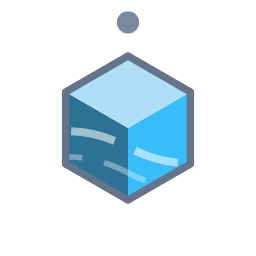
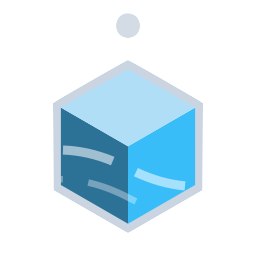
Deploying to gh-pages from @ pritamd47/riverlab-website@c75cc60e928ff2b4360d1bc097e0c35e90087186 🚀

Changed region(s): [[0.1875, 0.1875, 0.8125, 0.9062], [0.4375, 0.0312, 0.5625, 0.1562]]

diff --git a/2025/04/01/forecast-paper-published.html b/2025/04/01/forecast-paper-published.html
@@ -66,10 +66,10 @@
 
   <meta name="author" content="pritam-das">
   <meta property="og:type" content="article">
-  <meta property="og:updated_time" content="2026-05-09T11:22:44+00:00">
+  <meta property="og:updated_time" content="2026-05-09T12:01:44+00:00">
   <meta property="article:published_time" content="2025-04-01T00:00:00+00:00">
-  <meta property="article:modified_time" content="2026-05-09T11:22:44+00:00">
-  <meta name="revised" content="2026-05-09T11:22:44+00:00">
+  <meta property="article:modified_time" content="2026-05-09T12:01:44+00:00">
+  <meta name="revised" content="2026-05-09T12:01:44+00:00">
 
 
 <script type="application/ld+json">
@@ -79,7 +79,7 @@
       "@type": "BlogPosting",
       "author": { "@type": "Person", "name": "Paper on forecast-informed reservoir operations published in Journal of Hydrologic Engineering" },
       "datePublished": "2025-04-01T00:00:00+00:00",
-      "dateModified": "2026-05-09T11:22:44+00:00",
+      "dateModified": "2026-05-09T12:01:44+00:00",
     
     "name": "Paper on forecast-informed reservoir operations published in Journal of Hydrologic Engineering",
     "description": "Remote Sensing, Informatics &amp; Visualization for Earth Resources · IIT Bombay. Research lab at CSRE, IIT Bombay working on satellite remote sensing, hydrological modelling, and water-resource management for regulated rivers and reservoirs.",
@@ -380,12 +380,12 @@
   </g>
 
   <!-- Outer hex border only -->
-  <polygon fill="none" stroke="#64748b" stroke-width="2.3" stroke-linejoin="round" points="0,-22.5 19.5,-11.25 19.5,11.25 0,22.5 -19.5,11.25 -19.5,-11.25"></polygon>
+  <polygon fill="none" stroke="#cbd5e1" stroke-width="2.3" stroke-linejoin="round" points="0,-22.5 19.5,-11.25 19.5,11.25 0,22.5 -19.5,11.25 -19.5,-11.25"></polygon>
 
   <!-- Orbiting satellite dot -->
   <g>
     <animatetransform attributename="transform" attributetype="XML" type="rotate" from="0 0 0" to="360 0 0" dur="8s" repeatcount="indefinite"></animatetransform>
-    <circle cx="0" cy="-33" r="3.5" fill="#64748b" opacity="0.85"></circle>
+    <circle cx="0" cy="-33" r="3.5" fill="#cbd5e1" opacity="0.85"></circle>
   </g>
 </svg>
 

diff --git a/2025/05/01/swot-paper-published.html b/2025/05/01/swot-paper-published.html
@@ -66,10 +66,10 @@
 
   <meta name="author" content="pritam-das">
   <meta property="og:type" content="article">
-  <meta property="og:updated_time" content="2026-05-09T11:22:44+00:00">
+  <meta property="og:updated_time" content="2026-05-09T12:01:44+00:00">
   <meta property="article:published_time" content="2025-05-01T00:00:00+00:00">
-  <meta property="article:modified_time" content="2026-05-09T11:22:44+00:00">
-  <meta name="revised" content="2026-05-09T11:22:44+00:00">
+  <meta property="article:modified_time" content="2026-05-09T12:01:44+00:00">
+  <meta name="revised" content="2026-05-09T12:01:44+00:00">
 
 
 <script type="application/ld+json">
@@ -79,7 +79,7 @@
       "@type": "BlogPosting",
       "author": { "@type": "Person", "name": "New paper on SWOT reservoir monitoring published in Earth and Space Science" },
       "datePublished": "2025-05-01T00:00:00+00:00",
-      "dateModified": "2026-05-09T11:22:44+00:00",
+      "dateModified": "2026-05-09T12:01:44+00:00",
     
     "name": "New paper on SWOT reservoir monitoring published in Earth and Space Science",
     "description": "Remote Sensing, Informatics &amp; Visualization for Earth Resources · IIT Bombay. Research lab at CSRE, IIT Bombay working on satellite remote sensing, hydrological modelling, and water-resource management for regulated rivers and reservoirs.",
@@ -380,12 +380,12 @@
   </g>
 
   <!-- Outer hex border only -->
-  <polygon fill="none" stroke="#64748b" stroke-width="2.3" stroke-linejoin="round" points="0,-22.5 19.5,-11.25 19.5,11.25 0,22.5 -19.5,11.25 -19.5,-11.25"></polygon>
+  <polygon fill="none" stroke="#cbd5e1" stroke-width="2.3" stroke-linejoin="round" points="0,-22.5 19.5,-11.25 19.5,11.25 0,22.5 -19.5,11.25 -19.5,-11.25"></polygon>
 
   <!-- Orbiting satellite dot -->
   <g>
     <animatetransform attributename="transform" attributetype="XML" type="rotate" from="0 0 0" to="360 0 0" dur="8s" repeatcount="indefinite"></animatetransform>
-    <circle cx="0" cy="-33" r="3.5" fill="#64748b" opacity="0.85"></circle>
+    <circle cx="0" cy="-33" r="3.5" fill="#cbd5e1" opacity="0.85"></circle>
   </g>
 </svg>
 

diff --git a/2025/08/04/joined-iitb.html b/2025/08/04/joined-iitb.html
@@ -66,10 +66,10 @@
 
   <meta name="author" content="pritam-das">
   <meta property="og:type" content="article">
-  <meta property="og:updated_time" content="2026-05-09T11:22:44+00:00">
+  <meta property="og:updated_time" content="2026-05-09T12:01:44+00:00">
   <meta property="article:published_time" content="2025-08-04T00:00:00+00:00">
-  <meta property="article:modified_time" content="2026-05-09T11:22:44+00:00">
-  <meta name="revised" content="2026-05-09T11:22:44+00:00">
+  <meta property="article:modified_time" content="2026-05-09T12:01:44+00:00">
+  <meta name="revised" content="2026-05-09T12:01:44+00:00">
 
 
 <script type="application/ld+json">
@@ -79,7 +79,7 @@
       "@type": "BlogPosting",
       "author": { "@type": "Person", "name": "Pritam Das joins CSRE, IIT Bombay as Assistant Professor" },
       "datePublished": "2025-08-04T00:00:00+00:00",
-      "dateModified": "2026-05-09T11:22:44+00:00",
+      "dateModified": "2026-05-09T12:01:44+00:00",
     
     "name": "Pritam Das joins CSRE, IIT Bombay as Assistant Professor",
     "description": "Remote Sensing, Informatics &amp; Visualization for Earth Resources · IIT Bombay. Research lab at CSRE, IIT Bombay working on satellite remote sensing, hydrological modelling, and water-resource management for regulated rivers and reservoirs.",
@@ -380,12 +380,12 @@
   </g>
 
   <!-- Outer hex border only -->
-  <polygon fill="none" stroke="#64748b" stroke-width="2.3" stroke-linejoin="round" points="0,-22.5 19.5,-11.25 19.5,11.25 0,22.5 -19.5,11.25 -19.5,-11.25"></polygon>
+  <polygon fill="none" stroke="#cbd5e1" stroke-width="2.3" stroke-linejoin="round" points="0,-22.5 19.5,-11.25 19.5,11.25 0,22.5 -19.5,11.25 -19.5,-11.25"></polygon>
 
   <!-- Orbiting satellite dot -->
   <g>
     <animatetransform attributename="transform" attributetype="XML" type="rotate" from="0 0 0" to="360 0 0" dur="8s" repeatcount="indefinite"></animatetransform>
-    <circle cx="0" cy="-33" r="3.5" fill="#64748b" opacity="0.85"></circle>
+    <circle cx="0" cy="-33" r="3.5" fill="#cbd5e1" opacity="0.85"></circle>
   </g>
 </svg>
 

diff --git a/2025/03/01/rat-python-package.html b/2025/03/01/rat-python-package.html
@@ -66,10 +66,10 @@
 
   <meta name="author" content="pritam-das">
   <meta property="og:type" content="article">
-  <meta property="og:updated_time" content="2026-05-09T11:22:44+00:00">
+  <meta property="og:updated_time" content="2026-05-09T12:01:44+00:00">
   <meta property="article:published_time" content="2025-03-01T00:00:00+00:00">
-  <meta property="article:modified_time" content="2026-05-09T11:22:44+00:00">
-  <meta name="revised" content="2026-05-09T11:22:44+00:00">
+  <meta property="article:modified_time" content="2026-05-09T12:01:44+00:00">
+  <meta name="revised" content="2026-05-09T12:01:44+00:00">
 
 
 <script type="application/ld+json">
@@ -79,7 +79,7 @@
       "@type": "BlogPosting",
       "author": { "@type": "Person", "name": "RAT published as a Python package in Digital Water" },
       "datePublished": "2025-03-01T00:00:00+00:00",
-      "dateModified": "2026-05-09T11:22:44+00:00",
+      "dateModified": "2026-05-09T12:01:44+00:00",
     
     "name": "RAT published as a Python package in Digital Water",
     "description": "Remote Sensing, Informatics &amp; Visualization for Earth Resources · IIT Bombay. Research lab at CSRE, IIT Bombay working on satellite remote sensing, hydrological modelling, and water-resource management for regulated rivers and reservoirs.",
@@ -380,12 +380,12 @@
   </g>
 
   <!-- Outer hex border only -->
-  <polygon fill="none" stroke="#64748b" stroke-width="2.3" stroke-linejoin="round" points="0,-22.5 19.5,-11.25 19.5,11.25 0,22.5 -19.5,11.25 -19.5,-11.25"></polygon>
+  <polygon fill="none" stroke="#cbd5e1" stroke-width="2.3" stroke-linejoin="round" points="0,-22.5 19.5,-11.25 19.5,11.25 0,22.5 -19.5,11.25 -19.5,-11.25"></polygon>
 
   <!-- Orbiting satellite dot -->
   <g>
     <animatetransform attributename="transform" attributetype="XML" type="rotate" from="0 0 0" to="360 0 0" dur="8s" repeatcount="indefinite"></animatetransform>
-    <circle cx="0" cy="-33" r="3.5" fill="#64748b" opacity="0.85"></circle>
+    <circle cx="0" cy="-33" r="3.5" fill="#cbd5e1" opacity="0.85"></circle>
   </g>
 </svg>
 

diff --git a/2025/11/10/shanta-joins-riverlab.html b/2025/11/10/shanta-joins-riverlab.html
@@ -66,10 +66,10 @@
 
   <meta name="author" content="pritam-das">
   <meta property="og:type" content="article">
-  <meta property="og:updated_time" content="2026-05-09T11:22:44+00:00">
+  <meta property="og:updated_time" content="2026-05-09T12:01:44+00:00">
   <meta property="article:published_time" content="2025-11-10T00:00:00+00:00">
-  <meta property="article:modified_time" content="2026-05-09T11:22:44+00:00">
-  <meta name="revised" content="2026-05-09T11:22:44+00:00">
+  <meta property="article:modified_time" content="2026-05-09T12:01:44+00:00">
+  <meta name="revised" content="2026-05-09T12:01:44+00:00">
 
 
 <script type="application/ld+json">
@@ -79,7 +79,7 @@
       "@type": "BlogPosting",
       "author": { "@type": "Person", "name": "Shanta Panja joins RIVER Lab as a PhD student" },
       "datePublished": "2025-11-10T00:00:00+00:00",
-      "dateModified": "2026-05-09T11:22:44+00:00",
+      "dateModified": "2026-05-09T12:01:44+00:00",
     
     "name": "Shanta Panja joins RIVER Lab as a PhD student",
     "description": "Remote Sensing, Informatics &amp; Visualization for Earth Resources · IIT Bombay. Research lab at CSRE, IIT Bombay working on satellite remote sensing, hydrological modelling, and water-resource management for regulated rivers and reservoirs.",
@@ -380,12 +380,12 @@
   </g>
 
   <!-- Outer hex border only -->
-  <polygon fill="none" stroke="#64748b" stroke-width="2.3" stroke-linejoin="round" points="0,-22.5 19.5,-11.25 19.5,11.25 0,22.5 -19.5,11.25 -19.5,-11.25"></polygon>
+  <polygon fill="none" stroke="#cbd5e1" stroke-width="2.3" stroke-linejoin="round" points="0,-22.5 19.5,-11.25 19.5,11.25 0,22.5 -19.5,11.25 -19.5,-11.25"></polygon>
 
   <!-- Orbiting satellite dot -->
   <g>
     <animatetransform attributename="transform" attributetype="XML" type="rotate" from="0 0 0" to="360 0 0" dur="8s" repeatcount="indefinite"></animatetransform>
-    <circle cx="0" cy="-33" r="3.5" fill="#64748b" opacity="0.85"></circle>
+    <circle cx="0" cy="-33" r="3.5" fill="#cbd5e1" opacity="0.85"></circle>
   </g>
 </svg>
 

diff --git a/404.html b/404.html
@@ -374,12 +374,12 @@
   </g>
 
   <!-- Outer hex border only -->
-  <polygon fill="none" stroke="#64748b" stroke-width="2.3" stroke-linejoin="round" points="0,-22.5 19.5,-11.25 19.5,11.25 0,22.5 -19.5,11.25 -19.5,-11.25"></polygon>
+  <polygon fill="none" stroke="#cbd5e1" stroke-width="2.3" stroke-linejoin="round" points="0,-22.5 19.5,-11.25 19.5,11.25 0,22.5 -19.5,11.25 -19.5,-11.25"></polygon>
 
   <!-- Orbiting satellite dot -->
   <g>
     <animatetransform attributename="transform" attributetype="XML" type="rotate" from="0 0 0" to="360 0 0" dur="8s" repeatcount="indefinite"></animatetransform>
-    <circle cx="0" cy="-33" r="3.5" fill="#64748b" opacity="0.85"></circle>
+    <circle cx="0" cy="-33" r="3.5" fill="#cbd5e1" opacity="0.85"></circle>
   </g>
 </svg>
 

diff --git a/blog/index.html b/blog/index.html
@@ -426,12 +426,12 @@
   </g>
 
   <!-- Outer hex border only -->
-  <polygon fill="none" stroke="#64748b" stroke-width="2.3" stroke-linejoin="round" points="0,-22.5 19.5,-11.25 19.5,11.25 0,22.5 -19.5,11.25 -19.5,-11.25"></polygon>
+  <polygon fill="none" stroke="#cbd5e1" stroke-width="2.3" stroke-linejoin="round" points="0,-22.5 19.5,-11.25 19.5,11.25 0,22.5 -19.5,11.25 -19.5,-11.25"></polygon>
 
   <!-- Orbiting satellite dot -->
   <g>
     <animatetransform attributename="transform" attributetype="XML" type="rotate" from="0 0 0" to="360 0 0" dur="8s" repeatcount="indefinite"></animatetransform>
-    <circle cx="0" cy="-33" r="3.5" fill="#64748b" opacity="0.85"></circle>
+    <circle cx="0" cy="-33" r="3.5" fill="#cbd5e1" opacity="0.85"></circle>
   </g>
 </svg>
 

diff --git a/contact/index.html b/contact/index.html
@@ -426,12 +426,12 @@
   </g>
 
   <!-- Outer hex border only -->
-  <polygon fill="none" stroke="#64748b" stroke-width="2.3" stroke-linejoin="round" points="0,-22.5 19.5,-11.25 19.5,11.25 0,22.5 -19.5,11.25 -19.5,-11.25"></polygon>
+  <polygon fill="none" stroke="#cbd5e1" stroke-width="2.3" stroke-linejoin="round" points="0,-22.5 19.5,-11.25 19.5,11.25 0,22.5 -19.5,11.25 -19.5,-11.25"></polygon>
 
   <!-- Orbiting satellite dot -->
   <g>
     <animatetransform attributename="transform" attributetype="XML" type="rotate" from="0 0 0" to="360 0 0" dur="8s" repeatcount="indefinite"></animatetransform>
-    <circle cx="0" cy="-33" r="3.5" fill="#64748b" opacity="0.85"></circle>
+    <circle cx="0" cy="-33" r="3.5" fill="#cbd5e1" opacity="0.85"></circle>
   </g>
 </svg>
 

diff --git a/index.html b/index.html
@@ -426,12 +426,12 @@
   </g>
 
   <!-- Outer hex border only -->
-  <polygon fill="none" stroke="#64748b" stroke-width="2.3" stroke-linejoin="round" points="0,-22.5 19.5,-11.25 19.5,11.25 0,22.5 -19.5,11.25 -19.5,-11.25"></polygon>
+  <polygon fill="none" stroke="#cbd5e1" stroke-width="2.3" stroke-linejoin="round" points="0,-22.5 19.5,-11.25 19.5,11.25 0,22.5 -19.5,11.25 -19.5,-11.25"></polygon>
 
   <!-- Orbiting satellite dot -->
   <g>
     <animatetransform attributename="transform" attributetype="XML" type="rotate" from="0 0 0" to="360 0 0" dur="8s" repeatcount="indefinite"></animatetransform>
-    <circle cx="0" cy="-33" r="3.5" fill="#64748b" opacity="0.85"></circle>
+    <circle cx="0" cy="-33" r="3.5" fill="#cbd5e1" opacity="0.85"></circle>
   </g>
 </svg>
 

diff --git a/join/index.html b/join/index.html
@@ -426,12 +426,12 @@
   </g>
 
   <!-- Outer hex border only -->
-  <polygon fill="none" stroke="#64748b" stroke-width="2.3" stroke-linejoin="round" points="0,-22.5 19.5,-11.25 19.5,11.25 0,22.5 -19.5,11.25 -19.5,-11.25"></polygon>
+  <polygon fill="none" stroke="#cbd5e1" stroke-width="2.3" stroke-linejoin="round" points="0,-22.5 19.5,-11.25 19.5,11.25 0,22.5 -19.5,11.25 -19.5,-11.25"></polygon>
 
   <!-- Orbiting satellite dot -->
   <g>
     <animatetransform attributename="transform" attributetype="XML" type="rotate" from="0 0 0" to="360 0 0" dur="8s" repeatcount="indefinite"></animatetransform>
-    <circle cx="0" cy="-33" r="3.5" fill="#64748b" opacity="0.85"></circle>
+    <circle cx="0" cy="-33" r="3.5" fill="#cbd5e1" opacity="0.85"></circle>
   </g>
 </svg>
 

diff --git a/members/pritam-das.html b/members/pritam-das.html
@@ -372,12 +372,12 @@
   </g>
 
   <!-- Outer hex border only -->
-  <polygon fill="none" stroke="#64748b" stroke-width="2.3" stroke-linejoin="round" points="0,-22.5 19.5,-11.25 19.5,11.25 0,22.5 -19.5,11.25 -19.5,-11.25"></polygon>
+  <polygon fill="none" stroke="#cbd5e1" stroke-width="2.3" stroke-linejoin="round" points="0,-22.5 19.5,-11.25 19.5,11.25 0,22.5 -19.5,11.25 -19.5,-11.25"></polygon>
 
   <!-- Orbiting satellite dot -->
   <g>
     <animatetransform attributename="transform" attributetype="XML" type="rotate" from="0 0 0" to="360 0 0" dur="8s" repeatcount="indefinite"></animatetransform>
-    <circle cx="0" cy="-33" r="3.5" fill="#64748b" opacity="0.85"></circle>
+    <circle cx="0" cy="-33" r="3.5" fill="#cbd5e1" opacity="0.85"></circle>
   </g>
 </svg>
 

diff --git a/members/shanta-panja.html b/members/shanta-panja.html
@@ -372,12 +372,12 @@
   </g>
 
   <!-- Outer hex border only -->
-  <polygon fill="none" stroke="#64748b" stroke-width="2.3" stroke-linejoin="round" points="0,-22.5 19.5,-11.25 19.5,11.25 0,22.5 -19.5,11.25 -19.5,-11.25"></polygon>
+  <polygon fill="none" stroke="#cbd5e1" stroke-width="2.3" stroke-linejoin="round" points="0,-22.5 19.5,-11.25 19.5,11.25 0,22.5 -19.5,11.25 -19.5,-11.25"></polygon>
 
   <!-- Orbiting satellite dot -->
   <g>
     <animatetransform attributename="transform" attributetype="XML" type="rotate" from="0 0 0" to="360 0 0" dur="8s" repeatcount="indefinite"></animatetransform>
-    <circle cx="0" cy="-33" r="3.5" fill="#64748b" opacity="0.85"></circle>
+    <circle cx="0" cy="-33" r="3.5" fill="#cbd5e1" opacity="0.85"></circle>
   </g>
 </svg>
 
